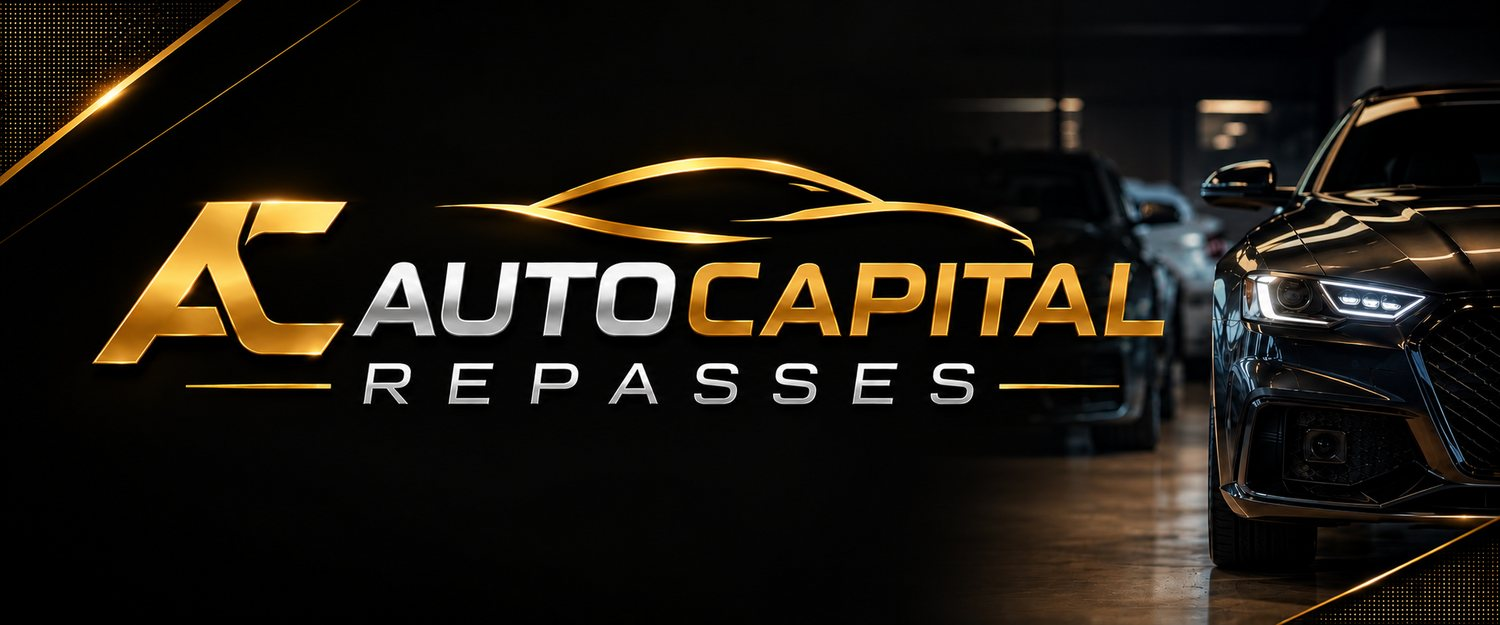
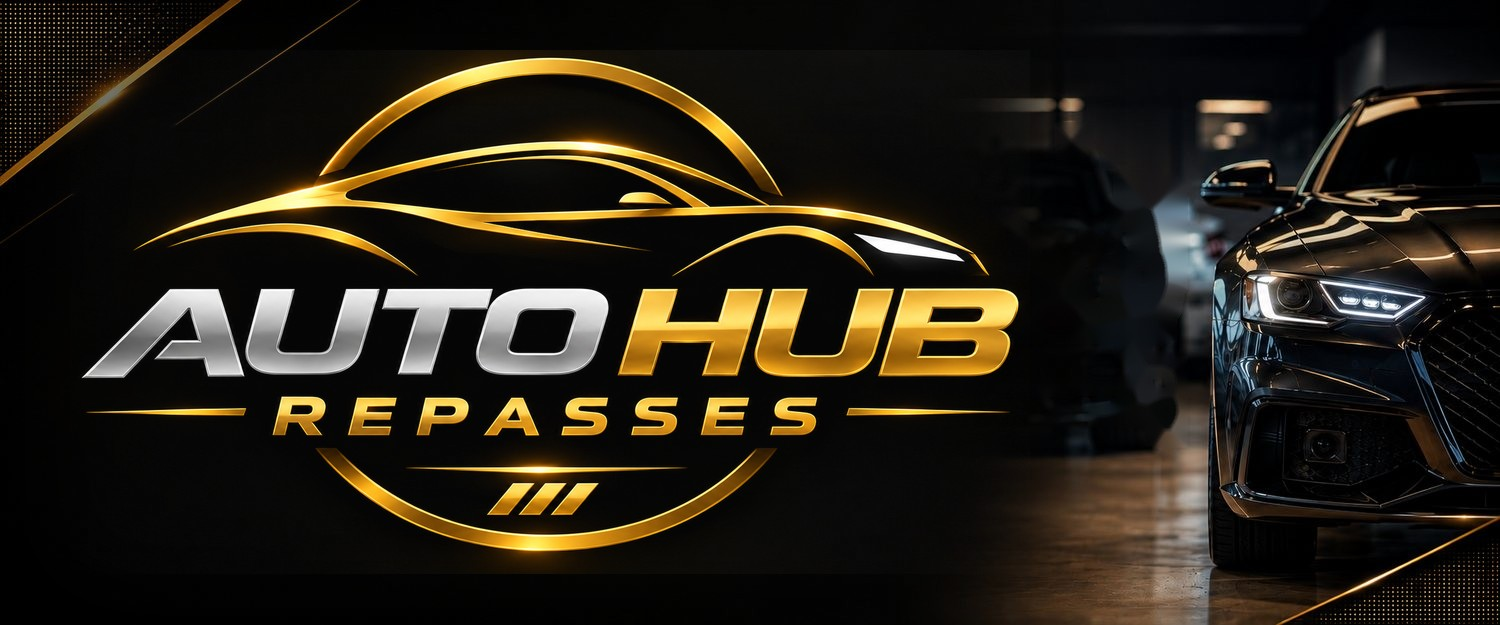
Add files via upload

diff --git a/src/index.html b/src/index.html
@@ -3,12 +3,12 @@
 <head>
 <meta charset="UTF-8">
 <meta name="viewport" content="width=device-width, initial-scale=1.0">
-<meta name="description" content="Repasse de veículos para lojistas: veículos selecionados, negociação direta e agilidade no fechamento. Estoque no Instagram @autocapitalrepasses.">
-<meta property="og:title" content="Auto Capital Repasses — Repasse de Veículos para Lojistas">
+<meta name="description" content="Repasse de veículos para lojistas: veículos selecionados, negociação direta e agilidade no fechamento. Estoque no Instagram @autohubrepasses.">
+<meta property="og:title" content="AutoHub Repasses — Repasse de Veículos para Lojistas">
 <meta property="og:description" content="Oportunidades de repasse para renovar o seu estoque.">
 <meta property="og:type" content="website">
 <meta property="og:image" content="img/banner.jpg">
-<title>Auto Capital Repasses — Repasse de Veículos para Lojistas</title>
+<title>AutoHub Repasses — Repasse de Veículos para Lojistas</title>
 <link rel="icon" type="image/png" sizes="64x64" href="img/favicon-64.png">
 <link rel="apple-touch-icon" href="img/favicon-180.png">
 <link rel="preconnect" href="https://fonts.googleapis.com">
@@ -19,18 +19,18 @@
 <body>
 <svg width="0" height="0" style="position:absolute" aria-hidden="true"><symbol id="i-wpp" viewBox="0 0 24 24" fill="currentColor"><path d="M17.472 14.382c-.297-.149-1.758-.867-2.03-.967-.273-.099-.471-.148-.67.15-.197.297-.767.966-.94 1.164-.173.199-.347.223-.644.075-.297-.15-1.255-.463-2.39-1.475-.883-.788-1.48-1.761-1.653-2.059-.173-.297-.018-.458.13-.606.134-.133.298-.347.446-.52.149-.174.198-.298.298-.497.099-.198.05-.371-.025-.52-.075-.149-.669-1.612-.916-2.207-.242-.579-.487-.5-.669-.51-.173-.008-.371-.01-.57-.01-.198 0-.52.074-.792.372-.272.297-1.04 1.016-1.04 2.479 0 1.462 1.065 2.875 1.213 3.074.149.198 2.096 3.2 5.077 4.487.709.306 1.262.489 1.694.625.712.227 1.36.195 1.871.118.571-.085 1.758-.719 2.006-1.413.248-.694.248-1.289.173-1.413-.074-.124-.272-.198-.57-.347m-5.421 7.403h-.004a9.87 9.87 0 01-5.031-1.378l-.361-.214-3.741.982.998-3.648-.235-.374a9.86 9.86 0 01-1.51-5.26c.001-5.45 4.436-9.884 9.888-9.884 2.64 0 5.122 1.03 6.988 2.898a9.825 9.825 0 012.893 6.994c-.003 5.45-4.437 9.884-9.885 9.884m8.413-18.297A11.815 11.815 0 0012.05 0C5.495 0 .16 5.335.157 11.892c0 2.096.547 4.142 1.588 5.945L.057 24l6.305-1.654a11.882 11.882 0 005.683 1.448h.005c6.554 0 11.89-5.335 11.893-11.893a11.821 11.821 0 00-3.48-8.413z"/></symbol></svg>
 
-<img class="banner" src="img/banner.jpg" alt="Auto Capital Repasses">
+<img class="banner" src="img/banner.jpg" alt="AutoHub Repasses">
 
 <div class="hero">
   <span class="badge">Repasse de veículos para lojistas</span>
   <h1>Oportunidades de <em>repasse</em> pra renovar o seu estoque.</h1>
-  <p>Veículos selecionados, negociação direta e agilidade no fechamento. Estoque atualizado no Instagram <strong>@autocapitalrepasses</strong>.</p>
+  <p>Veículos selecionados, negociação direta e agilidade no fechamento. Estoque atualizado no Instagram <strong>@autohubrepasses</strong>.</p>
   <div class="cta-row">
     <a href="#vender" class="btn-cta">
       <svg width="18" height="18" aria-hidden="true"><use href="#i-wpp"/></svg>
       Falar no WhatsApp
     </a>
-    <a href="https://www.instagram.com/autocapitalrepasses/" target="_blank" rel="noopener" class="btn-ig">
+    <a href="https://www.instagram.com/autohubrepasses/" target="_blank" rel="noopener" class="btn-ig">
       <svg width="18" height="18" viewBox="0 0 24 24" fill="none" stroke="currentColor" stroke-width="2"><rect x="2" y="2" width="20" height="20" rx="5"/><circle cx="12" cy="12" r="4.2"/><circle cx="17.4" cy="6.6" r="1.1" fill="currentColor" stroke="none"/></svg>
       Ver estoque
     </a>
@@ -38,7 +38,7 @@
 </div>
 
 <section id="beneficios">
-  <span class="section-label">Por que a Auto Capital</span>
+  <span class="section-label">Por que a AutoHub</span>
   <div class="section-title">Negócio direto, sem enrolação</div>
   <div class="section-sub">Pensado para o lojista que precisa de agilidade e boa margem.</div>
   <div class="beneficios-grid">
@@ -67,19 +67,19 @@
       <div class="beneficio-icon">🤝</div>
       <div>
         <div class="beneficio-title">Estoque no Instagram</div>
-        <div class="beneficio-desc">Fotos e detalhes de todos os veículos em @autocapitalrepasses.</div>
+        <div class="beneficio-desc">Fotos e detalhes de todos os veículos em @autohubrepasses.</div>
       </div>
     </div>
   </div>
 </section>
 
 <section id="comprar">
-  <img src="img/logo-comprar.png" loading="lazy" alt="Auto Capital Repasses" style="width:300px;max-width:78%;display:block;margin:0 auto">
+  <img src="img/logo-comprar.jpg" loading="lazy" alt="AutoHub Repasses" style="width:320px;max-width:80%;height:auto;display:block;margin:0 auto;border-radius:14px">
   <div class="comprar-inner">
     <span class="section-label">Estoque</span>
     <div class="section-title">Confira no Instagram</div>
-    <p class="section-sub">Fotos e detalhes de todos os veículos disponíveis em <strong>@autocapitalrepasses</strong>.</p>
-    <a href="https://www.instagram.com/autocapitalrepasses/" target="_blank" rel="noopener" class="btn-ig">
+    <p class="section-sub">Fotos e detalhes de todos os veículos disponíveis em <strong>@autohubrepasses</strong>.</p>
+    <a href="https://www.instagram.com/autohubrepasses/" target="_blank" rel="noopener" class="btn-ig">
       <svg width="18" height="18" viewBox="0 0 24 24" fill="none" stroke="currentColor" stroke-width="2"><rect x="2" y="2" width="20" height="20" rx="5"/><circle cx="12" cy="12" r="4.2"/><circle cx="17.4" cy="6.6" r="1.1" fill="currentColor" stroke="none"/></svg>
       Abrir Instagram
     </a>
@@ -137,19 +137,24 @@
   </button>
   <p class="form-note">Sua mensagem abre direto no WhatsApp, já formatada.<br>Procuramos e respondemos o mais rápido possível.</p>
   <p class="contato"><span class="contato-label">WhatsApp</span><a href="https://wa.me/5519998942563" target="_blank" rel="noopener">(19) 99894-2563</a></p>
+  <p class="contato contato-email"><span class="contato-label">E-mail</span><a href="mailto:autohubrepasses@gmail.com">autohubrepasses@gmail.com</a></p>
 </section>
 
 <footer>
-  <img src="img/logo-footer.png" loading="lazy" alt="Auto Capital Repasses" style="width:380px;max-width:90%;height:auto;border-radius:0;margin-bottom:1rem">
+  <img src="img/logo-footer.png" loading="lazy" alt="AutoHub Repasses" style="width:380px;max-width:90%;height:auto;border-radius:0;margin-bottom:1rem">
   <div style="max-width:520px;margin:0 auto;line-height:1.6">Veículos de repasse: vendidos <strong>sem garantia</strong> e <strong>no estado em que se encontram</strong>.</div>
   <div class="footer-links">
-    <a href="https://www.instagram.com/autocapitalrepasses/" target="_blank" rel="noopener">
+    <a href="https://www.instagram.com/autohubrepasses/" target="_blank" rel="noopener">
       <svg width="14" height="14" viewBox="0 0 24 24" fill="none" stroke="currentColor" stroke-width="2"><rect x="2" y="2" width="20" height="20" rx="5"/><circle cx="12" cy="12" r="4.2"/><circle cx="17.4" cy="6.6" r="1.1" fill="currentColor" stroke="none"/></svg>
       Instagram
     </a>
     <a href="https://wa.me/5519998942563" target="_blank" rel="noopener">
       <svg width="14" height="14" aria-hidden="true"><use href="#i-wpp"/></svg>
       WhatsApp (19) 99894-2563
+    </a>
+    <a href="mailto:autohubrepasses@gmail.com">
+      <svg width="14" height="14" viewBox="0 0 24 24" fill="none" stroke="currentColor" stroke-width="2" aria-hidden="true"><rect x="2" y="4" width="20" height="16" rx="2"/><path d="m2 6 10 7 10-7"/></svg>
+      autohubrepasses@gmail.com
     </a>
   </div>
 </footer>

diff --git a/src/css/style.css b/src/css/style.css
@@ -29,6 +29,9 @@
   .contato-label{display:block;font-size:1rem;letter-spacing:.14em;text-transform:uppercase;margin-bottom:.3rem}
   .contato a{display:block;color:var(--gold-light);font-weight:800;text-decoration:none;font-size:clamp(2rem,9.5vw,3.2rem);line-height:1.1;letter-spacing:.01em;white-space:nowrap}
 
+  .contato-email{margin-top:1.4rem}
+  .contato.contato-email a{font-size:clamp(1rem,5vw,1.4rem);font-weight:700;white-space:normal;word-break:break-all}
+
   .hero{text-align:center;padding:2rem 1.5rem 1.6rem;position:relative;overflow:hidden}
   .hero::before{content:'';position:absolute;inset:0;background:radial-gradient(ellipse 60% 50% at 50% 30%,rgba(205,154,63,.08) 0%,transparent 70%);pointer-events:none}
   .hero h1{font-family:'Oswald',sans-serif;font-size:clamp(1.8rem,5.5vw,2.9rem);font-weight:600;line-height:1.2;margin-bottom:1rem;position:relative}

diff --git a/src/js/main.js b/src/js/main.js
@@ -93,7 +93,7 @@
 
     // *texto* = negrito no WhatsApp
     var linhas = [];
-    linhas.push('Ol\u00e1, Auto Capital Repasses! ' + E.ola);
+    linhas.push('Ol\u00e1, AutoHub Repasses! ' + E.ola);
     linhas.push('');
     linhas.push('Estou procurando um carro, pode me ajudar a encontrar?');
     linhas.push('');

diff --git a/README.md b/README.md
@@ -1,4 +1,4 @@
-# Auto Capital Repasses
+# AutoHub Repasses
 
 Site estático (HTML/CSS/JS puro) · leads salvos no **Supabase** · deploy no **Netlify** via **GitHub**.
 
@@ -36,12 +36,12 @@ Site estático (HTML/CSS/JS puro) · leads salvos no **Supabase** · deploy no *
 
 ### 2. GitHub
 ```bash
-cd auto-capital-repasses
+cd autohub-repasses
 git init
 git add .
 git commit -m "Primeira versão do site"
 git branch -M main
-git remote add origin https://github.com/SEU-USUARIO/auto-capital-repasses.git
+git remote add origin https://github.com/SEU-USUARIO/autohub-repasses.git
 git push -u origin main
 ```
 
